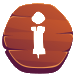
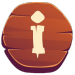
New pngs

diff --git a/core/src/com/avalancherush/game/Views/MenuView.java b/core/src/com/avalancherush/game/Views/MenuView.java
@@ -6,6 +6,7 @@ import com.badlogic.gdx.Gdx;
 import com.badlogic.gdx.InputAdapter;
 import com.badlogic.gdx.Screen;
 import com.badlogic.gdx.ScreenAdapter;
+import com.badlogic.gdx.assets.AssetManager;
 import com.badlogic.gdx.graphics.Color;
 import com.badlogic.gdx.graphics.GL20;
 import com.badlogic.gdx.graphics.OrthographicCamera;
@@ -33,14 +34,12 @@ public class MenuView extends ScreenAdapter {
     private Texture profileButtonTexture;
     private Texture settingsButtonTexture;
     private Texture logo;
+    private Texture singlePlayerLogo;
+    private Texture multiPlayerLogo;
     private Rectangle singlePlayerButton;
     private Rectangle multiPlayerButton;
     private Rectangle profileButton;
     private Rectangle settingsButton;
-
-
-
-    private BitmapFont fontButton;
 
     public MenuView(OrthographicCamera orthographicCamera) {
         this.orthographicCamera = orthographicCamera;
@@ -48,6 +47,8 @@ public class MenuView extends ScreenAdapter {
         this.batch = new SpriteBatch();
         this.texture = new Texture((Gdx.files.internal("buttonWood.png")));
         this.logo = new Texture((Gdx.files.internal("logo.png")));
+        this.singlePlayerLogo = new Texture((Gdx.files.internal("singlePlayerLogoResize.png")));
+        this.multiPlayerLogo = new Texture((Gdx.files.internal("multiPlayerLogoResize.png")));
         this.backGroundTexture = new Texture(Gdx.files.internal("backGroundMountain.jpg"));
         this.profileButtonTexture = new Texture(Gdx.files.internal("buttonProfile.png"));
         this.settingsButtonTexture = new Texture(Gdx.files.internal("buttonSettings.png"));
@@ -59,13 +60,7 @@ public class MenuView extends ScreenAdapter {
         this.multiPlayerButton = new Rectangle(singlePlayerButton.x, singlePlayerButton.y - texture.getHeight() - buttonSpacing, texture.getWidth(), texture.getHeight());
         this.profileButton = new Rectangle(50, 50, profileButtonTexture.getWidth(), profileButtonTexture.getHeight());
 
-        // Adjust the position of the settings button to the bottom right corner
         this.settingsButton = new Rectangle(MyAvalancheRushGame.INSTANCE.getScreenWidth() - settingsButtonTexture.getWidth() - 50, 50, settingsButtonTexture.getWidth(), settingsButtonTexture.getHeight());
-
-
-        this.fontButton = new BitmapFont();
-        this.fontButton.getData().setScale(2);
-        this.fontButton.setColor(Color.BLACK);
     }
 
     @Override
@@ -81,19 +76,18 @@ public class MenuView extends ScreenAdapter {
         batch.draw(backGroundTexture, 0, 0, MyAvalancheRushGame.INSTANCE.getScreenWidth(), MyAvalancheRushGame.INSTANCE.getScreenHeight());
 
         batch.draw(logo, ((float)MyAvalancheRushGame.INSTANCE.getScreenWidth() - logo.getWidth()) / 2, MyAvalancheRushGame.INSTANCE.getScreenHeight() - logo.getHeight() - 20);
-
         batch.draw(texture, singlePlayerButton.x, singlePlayerButton.y);
-        GlyphLayout firstButtonLayout = new GlyphLayout(fontButton,"Single Player");
-        fontButton.draw(batch, "Single Player", singlePlayerButton.x + (singlePlayerButton.width - firstButtonLayout.width) / 2, singlePlayerButton.y + (singlePlayerButton.height + firstButtonLayout.height + 15) / 2);
-
+        float singlePlayerButtonX = singlePlayerButton.x + (singlePlayerButton.getWidth() - singlePlayerLogo.getWidth() + 50) / 2;
+        float singlePlayerButtonY= singlePlayerButton.y + (singlePlayerButton.getHeight() - singlePlayerLogo.getHeight() - 10) / 2;
+        batch.draw(singlePlayerLogo, singlePlayerButtonX, singlePlayerButtonY);
         batch.draw(texture, multiPlayerButton.x, multiPlayerButton.y);
-        GlyphLayout secondButtonLayout = new GlyphLayout(fontButton, "Multiplayer");
-        fontButton.draw(batch, "Multiplayer", multiPlayerButton.x + (multiPlayerButton.width - secondButtonLayout.width) / 2, multiPlayerButton.y + (multiPlayerButton.height + secondButtonLayout.height + 15) / 2);
+        float multiPlayerButtonX = multiPlayerButton.x + (multiPlayerButton.getWidth() - multiPlayerLogo.getWidth() + 50) / 2;
+        float multiPlayerButtonY= multiPlayerButton.y + (multiPlayerButton.getHeight() - multiPlayerLogo.getHeight() - 10) / 2;
+        batch.draw(multiPlayerLogo, multiPlayerButtonX, multiPlayerButtonY);
 
         batch.draw(profileButtonTexture, profileButton.x, profileButton.y);
 
         batch.draw(settingsButtonTexture, settingsButton.x, settingsButton.y);
-
         batch.end();
     }
 
@@ -114,7 +108,7 @@ public class MenuView extends ScreenAdapter {
                 } else if (settingsButton.contains(touchPos.x, touchPos.y)) {
                     MyAvalancheRushGame.INSTANCE.setScreen(new SettingsView(orthographicCamera));
                 }
-                return true; // Indicate that the touch event was handled
+                return true;
             }
         });
     }

diff --git a/core/src/com/avalancherush/game/Views/SinglePlayerView.java b/core/src/com/avalancherush/game/Views/SinglePlayerView.java
@@ -4,12 +4,9 @@ import com.avalancherush.game.MyAvalancheRushGame;
 import com.badlogic.gdx.Gdx;
 import com.badlogic.gdx.InputAdapter;
 import com.badlogic.gdx.ScreenAdapter;
-import com.badlogic.gdx.graphics.Color;
 import com.badlogic.gdx.graphics.GL20;
 import com.badlogic.gdx.graphics.OrthographicCamera;
 import com.badlogic.gdx.graphics.Texture;
-import com.badlogic.gdx.graphics.g2d.BitmapFont;
-import com.badlogic.gdx.graphics.g2d.GlyphLayout;
 import com.badlogic.gdx.graphics.g2d.SpriteBatch;
 import com.badlogic.gdx.math.Rectangle;
 import com.badlogic.gdx.math.Vector3;
@@ -21,27 +18,22 @@ public class SinglePlayerView extends ScreenAdapter {
     private Texture backGroundTexture;
     private Texture playButtonTexture;
     private Texture homeButtonTexture;
+    private Texture singlePlayerLogo;
+    private Texture playLogo;
     private Rectangle playButton;
     private Rectangle homeButton;
-    private BitmapFont fontSinglePlayer;
-    private BitmapFont fontPlayButton;
 
     public SinglePlayerView(OrthographicCamera orthographicCamera) {
         this.orthographicCamera = orthographicCamera;
         this.batch = new SpriteBatch();
+        this.singlePlayerLogo = new Texture((Gdx.files.internal("singlePlayerLogo.png")));
+        this.playLogo = new Texture((Gdx.files.internal("playLogo.png")));
         this.playButtonTexture = new Texture(Gdx.files.internal("buttonWood.png"));
         this.homeButtonTexture = new Texture(Gdx.files.internal("buttonHome.png"));
         this.backGroundTexture = new Texture(Gdx.files.internal("backGroundMountain.jpg"));
 
         this.playButton = new Rectangle((MyAvalancheRushGame.INSTANCE.getScreenWidth() - playButtonTexture.getWidth()) / 2, (MyAvalancheRushGame.INSTANCE.getScreenHeight() - playButtonTexture.getHeight()) / 2, playButtonTexture.getWidth(), playButtonTexture.getHeight());
         this.homeButton = new Rectangle(50, 50, homeButtonTexture.getWidth(), homeButtonTexture.getHeight());
-
-        this.fontSinglePlayer = new BitmapFont();
-        this.fontPlayButton = new BitmapFont();
-        this.fontSinglePlayer.setColor(Color.BLACK);
-        this.fontPlayButton.setColor(Color.BLACK);
-        this.fontSinglePlayer.getData().setScale(5);
-        this.fontPlayButton.getData().setScale(3);
     }
 
     @Override
@@ -54,16 +46,19 @@ public class SinglePlayerView extends ScreenAdapter {
 
         batch.draw(backGroundTexture, 0, 0, MyAvalancheRushGame.INSTANCE.getScreenWidth(), MyAvalancheRushGame.INSTANCE.getScreenHeight());
 
-        fontSinglePlayer.draw(batch, "Single Player", ((float) MyAvalancheRushGame.INSTANCE.getScreenWidth() - 400) / 2, MyAvalancheRushGame.INSTANCE.getScreenHeight() - 20);
+        batch.draw(singlePlayerLogo, ((float)MyAvalancheRushGame.INSTANCE.getScreenWidth() - singlePlayerLogo.getWidth() + 100) / 2, MyAvalancheRushGame.INSTANCE.getScreenHeight() - singlePlayerLogo.getHeight() - 20);
 
         batch.draw(playButtonTexture, playButton.x, playButton.y);
-        GlyphLayout layout = new GlyphLayout(fontSinglePlayer, "Play");
-        fontPlayButton.draw(batch, "Play", playButton.x + (playButton.width - layout.width + 60) / 2, playButton.y + (playButton.height + layout.height - 12) / 2);
+
+        float playLogoX = playButton.x + (playButton.width - playLogo.getWidth() + 100) / 2;
+        float playLogoY = playButton.y + (playButton.height - playLogo.getHeight()) / 2;
+        batch.draw(playLogo, playLogoX, playLogoY);
 
         batch.draw(homeButtonTexture, homeButton.x, homeButton.y);
 
         batch.end();
     }
+
 
     @Override
     public void show() {
@@ -74,10 +69,8 @@ public class SinglePlayerView extends ScreenAdapter {
                 orthographicCamera.unproject(touchPos);
 
                 if (playButton.contains(touchPos.x, touchPos.y)) {
-                    // Handle play button click
                     return true;
                 } else if (homeButton.contains(touchPos.x, touchPos.y)) {
-                    // Return to the MenuView
                     MyAvalancheRushGame.INSTANCE.setScreen(new MenuView(orthographicCamera));
                     return true;
                 }
@@ -91,8 +84,9 @@ public class SinglePlayerView extends ScreenAdapter {
         batch.dispose();
         playButtonTexture.dispose();
         homeButtonTexture.dispose();
-        fontSinglePlayer.dispose();
         backGroundTexture.dispose();
+        playLogo.dispose();
+        singlePlayerLogo.dispose();
     }
 }
 

diff --git a/core/src/com/avalancherush/game/Views/MultiPlayerView.java b/core/src/com/avalancherush/game/Views/MultiPlayerView.java
@@ -22,15 +22,20 @@ public class MultiPlayerView extends ScreenAdapter {
     private Texture joinButtonTexture;
     private Texture createButtonTexture;
     private Texture homeButtonTexture;
+    private Texture multiPlayerLogo;
+    private Texture createLogo;
+    private Texture joinLogo;
     private Rectangle joinButton;
     private Rectangle createButton;
     private Rectangle homeButton;
-    private BitmapFont fontMultiPlayer;
-    private BitmapFont fontButton;
+
 
     public MultiPlayerView(OrthographicCamera orthographicCamera) {
         this.orthographicCamera = orthographicCamera;
         this.batch = new SpriteBatch();
+        this.multiPlayerLogo = new Texture((Gdx.files.internal("multiPlayerLogo.png")));
+        this.joinLogo = new Texture((Gdx.files.internal("joinLogo.png")));
+        this.createLogo = new Texture((Gdx.files.internal("createLogo.png")));
         this.joinButtonTexture = new Texture(Gdx.files.internal("buttonWood.png"));
         this.createButtonTexture = new Texture(Gdx.files.internal("buttonWood.png"));
         this.homeButtonTexture = new Texture(Gdx.files.internal("buttonHome.png"));
@@ -40,12 +45,6 @@ public class MultiPlayerView extends ScreenAdapter {
         this.createButton = new Rectangle((MyAvalancheRushGame.INSTANCE.getScreenWidth() - createButtonTexture.getWidth()) / 2, joinButton.y - joinButtonTexture.getHeight() - 20, createButtonTexture.getWidth(), createButtonTexture.getHeight());
         this.homeButton = new Rectangle(50, 50, homeButtonTexture.getWidth(), homeButtonTexture.getHeight());
 
-        this.fontMultiPlayer = new BitmapFont();
-        this.fontButton = new BitmapFont();
-        this.fontMultiPlayer.setColor(Color.BLACK);
-        this.fontButton.setColor(Color.BLACK);
-        this.fontMultiPlayer.getData().setScale(5);
-        this.fontButton.getData().setScale(2);
     }
 
     @Override
@@ -57,21 +56,24 @@ public class MultiPlayerView extends ScreenAdapter {
         batch.begin();
 
         batch.draw(backGroundTexture, 0, 0, MyAvalancheRushGame.INSTANCE.getScreenWidth(), MyAvalancheRushGame.INSTANCE.getScreenHeight());
-
-        fontMultiPlayer.draw(batch, "Multiplayer", ((float) MyAvalancheRushGame.INSTANCE.getScreenWidth() - 400 + 80) / 2, MyAvalancheRushGame.INSTANCE.getScreenHeight() - 20);
+        batch.draw(multiPlayerLogo, ((float)MyAvalancheRushGame.INSTANCE.getScreenWidth() - multiPlayerLogo.getWidth() + 100) / 2, MyAvalancheRushGame.INSTANCE.getScreenHeight() - multiPlayerLogo.getHeight() - 20);
 
         batch.draw(joinButtonTexture, joinButton.x, joinButton.y);
-        GlyphLayout joinLayout = new GlyphLayout(fontButton, "Join Lobby");
-        fontButton.draw(batch, "Join Lobby", joinButton.x + (joinButton.width - joinLayout.width) / 2, joinButton.y + (joinButton.height + joinLayout.height + 15) / 2);
-
         batch.draw(createButtonTexture, createButton.x, createButton.y);
-        GlyphLayout createLayout = new GlyphLayout(fontButton, "Create Lobby");
-        fontButton.draw(batch, "Create Lobby", createButton.x + (createButton.width - createLayout.width) / 2, createButton.y + (createButton.height + createLayout.height + 15) / 2);
+
+        float joinLogoX = joinButton.x + (joinButtonTexture.getWidth() - joinLogo.getWidth() + 100) / 2;
+        float joinLogoY = joinButton.y + (joinButtonTexture.getHeight() - joinLogo.getHeight() - 10) / 2;
+        batch.draw(joinLogo, joinLogoX, joinLogoY);
+
+        float createLogoX = createButton.x + (createButtonTexture.getWidth() - createLogo.getWidth() + 100) / 2;
+        float createLogoY = createButton.y + (createButtonTexture.getHeight() - createLogo.getHeight() - 10) / 2;
+        batch.draw(createLogo, createLogoX, createLogoY);
 
         batch.draw(homeButtonTexture, homeButton.x, homeButton.y);
 
         batch.end();
     }
+
 
     @Override
     public void show() {
@@ -100,8 +102,6 @@ public class MultiPlayerView extends ScreenAdapter {
         joinButtonTexture.dispose();
         createButtonTexture.dispose();
         homeButtonTexture.dispose();
-        fontMultiPlayer.dispose();
-        fontButton.dispose();
         backGroundTexture.dispose();
     }
 }

diff --git a/core/src/com/avalancherush/game/Views/ProfileView.java b/core/src/com/avalancherush/game/Views/ProfileView.java
@@ -24,6 +24,7 @@ public class ProfileView extends ScreenAdapter {
     private Texture woodBeamTexture;
     private Texture buttonModifyTexture;
     private BitmapFont fontTitle;
+    private Texture profileLogo;
     private String username = "Default_Username";
     private Rectangle changeUsernameButton;
     private boolean editingUsername = false;
@@ -32,6 +33,7 @@ public class ProfileView extends ScreenAdapter {
     public ProfileView(OrthographicCamera orthographicCamera) {
         this.orthographicCamera = orthographicCamera;
         this.batch = new SpriteBatch();
+        this.profileLogo = new Texture((Gdx.files.internal("profileLogo.png")));
         this.backgroundTexture = new Texture(Gdx.files.internal("backGroundMountain.jpg"));
         this.homeButtonTexture = new Texture(Gdx.files.internal("buttonHome.png"));
         this.buttonModifyTexture = new Texture(Gdx.files.internal("buttonModify.png"));
@@ -52,21 +54,20 @@ public class ProfileView extends ScreenAdapter {
         batch.begin();
 
         batch.draw(backgroundTexture, 0, 0, MyAvalancheRushGame.INSTANCE.getScreenWidth(), MyAvalancheRushGame.INSTANCE.getScreenHeight());
-
+        batch.draw(profileLogo, ((float)MyAvalancheRushGame.INSTANCE.getScreenWidth() - profileLogo.getWidth() + 100) / 2, MyAvalancheRushGame.INSTANCE.getScreenHeight() - profileLogo.getHeight() - 20);
 
         GlyphLayout glyphLayout = new GlyphLayout();
         glyphLayout.setText(fontTitle, "Username: " + username);
-        float usernameWidth = glyphLayout.width;
 
 
-        float usernameX = ((float) MyAvalancheRushGame.INSTANCE.getScreenWidth() - usernameWidth) / 2;
+        float usernameX = ((float) MyAvalancheRushGame.INSTANCE.getScreenWidth() - 150) / 2;
 
 
-        float woodBeamY = MyAvalancheRushGame.INSTANCE.getScreenHeight() - 120;
-        batch.draw(woodBeamTexture, usernameX-32, woodBeamY, usernameWidth+64, 74);
+        float woodBeamY = MyAvalancheRushGame.INSTANCE.getScreenHeight() - 200;
+        batch.draw(woodBeamTexture, usernameX-32, woodBeamY, 150 + 64, 74);
 
-        float changeButtonX = usernameX + usernameWidth + 50;
-        float changeButtonY = MyAvalancheRushGame.INSTANCE.getScreenHeight() - 112;
+        float changeButtonX = usernameX + 150 + 50;
+        float changeButtonY = MyAvalancheRushGame.INSTANCE.getScreenHeight() - 200;
         changeUsernameButton.setPosition(changeButtonX, changeButtonY);
 
 
@@ -76,9 +77,9 @@ public class ProfileView extends ScreenAdapter {
 
 
         if (editingUsername) {
-            fontTitle.draw(batch, "NEW USERNAME:\n" + usernameBuilder.toString(), usernameX, MyAvalancheRushGame.INSTANCE.getScreenHeight() - 70);
+            fontTitle.draw(batch, "NEW USERNAME:\n" + usernameBuilder.toString(), usernameX, MyAvalancheRushGame.INSTANCE.getScreenHeight() - 150);
         } else {
-            fontTitle.draw(batch, "USERNAME:\n" + username, usernameX, MyAvalancheRushGame.INSTANCE.getScreenHeight() - 70);
+            fontTitle.draw(batch, "USERNAME:\n" + username, usernameX, MyAvalancheRushGame.INSTANCE.getScreenHeight() - 150);
         }
 
         batch.end();
@@ -115,13 +116,14 @@ public class ProfileView extends ScreenAdapter {
                         return true;
                     } else if (character == '\b' && usernameBuilder.length() > 0) {
                         usernameBuilder.deleteCharAt(usernameBuilder.length() - 1);
-                    } else if (character != '\b') {
+                    } else if (character != '\b' && usernameBuilder.length() < 16) {
                         usernameBuilder.append(character);
                     }
                     return true;
                 }
                 return false;
             }
+
         });
     }
 

diff --git a/core/src/com/avalancherush/game/MyAvalancheRushGame.java b/core/src/com/avalancherush/game/MyAvalancheRushGame.java
@@ -4,8 +4,10 @@ import com.avalancherush.game.Views.MenuView;
 import com.badlogic.gdx.ApplicationAdapter;
 import com.badlogic.gdx.Game;
 import com.badlogic.gdx.Gdx;
+import com.badlogic.gdx.assets.AssetManager;
 import com.badlogic.gdx.graphics.OrthographicCamera;
 import com.badlogic.gdx.graphics.Texture;
+import com.badlogic.gdx.graphics.g2d.BitmapFont;
 import com.badlogic.gdx.graphics.g2d.SpriteBatch;
 import com.badlogic.gdx.scenes.scene2d.ui.Skin;
 import com.badlogic.gdx.utils.ScreenUtils;
